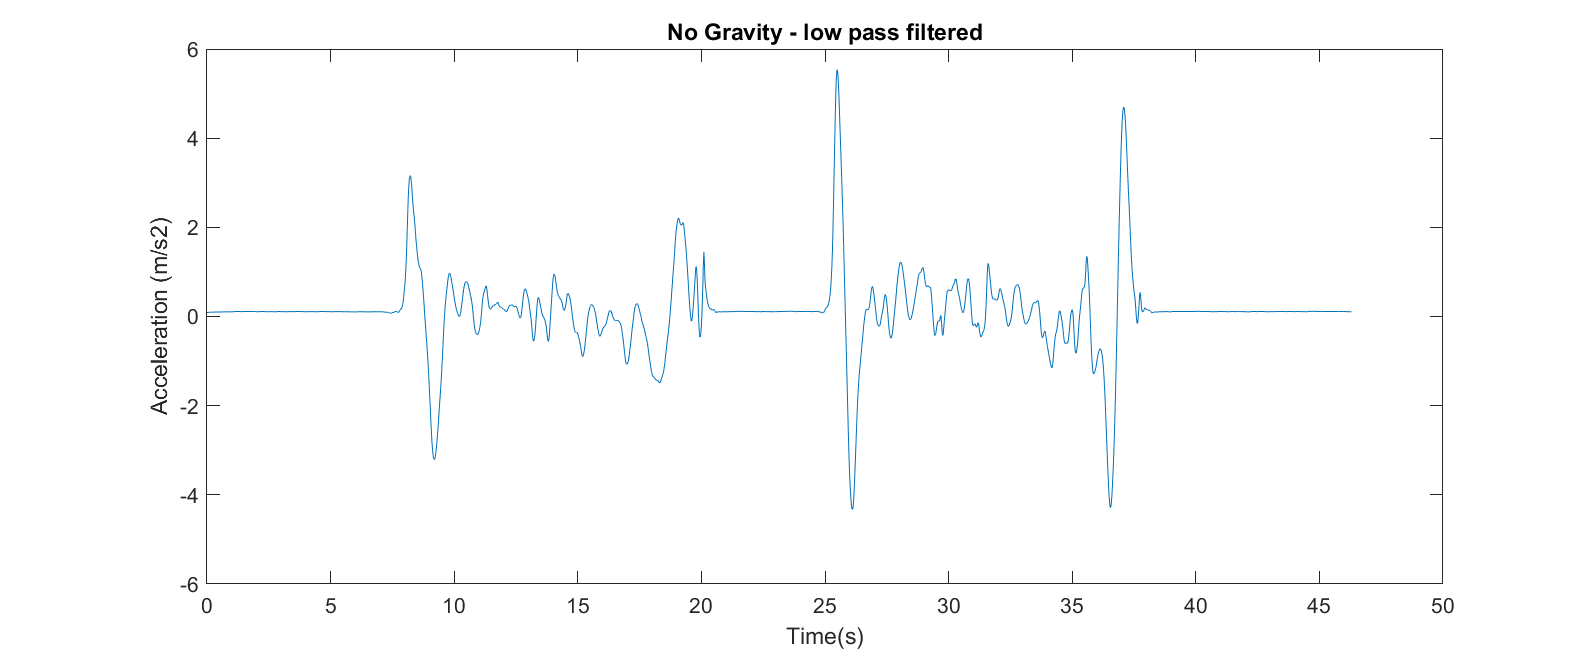
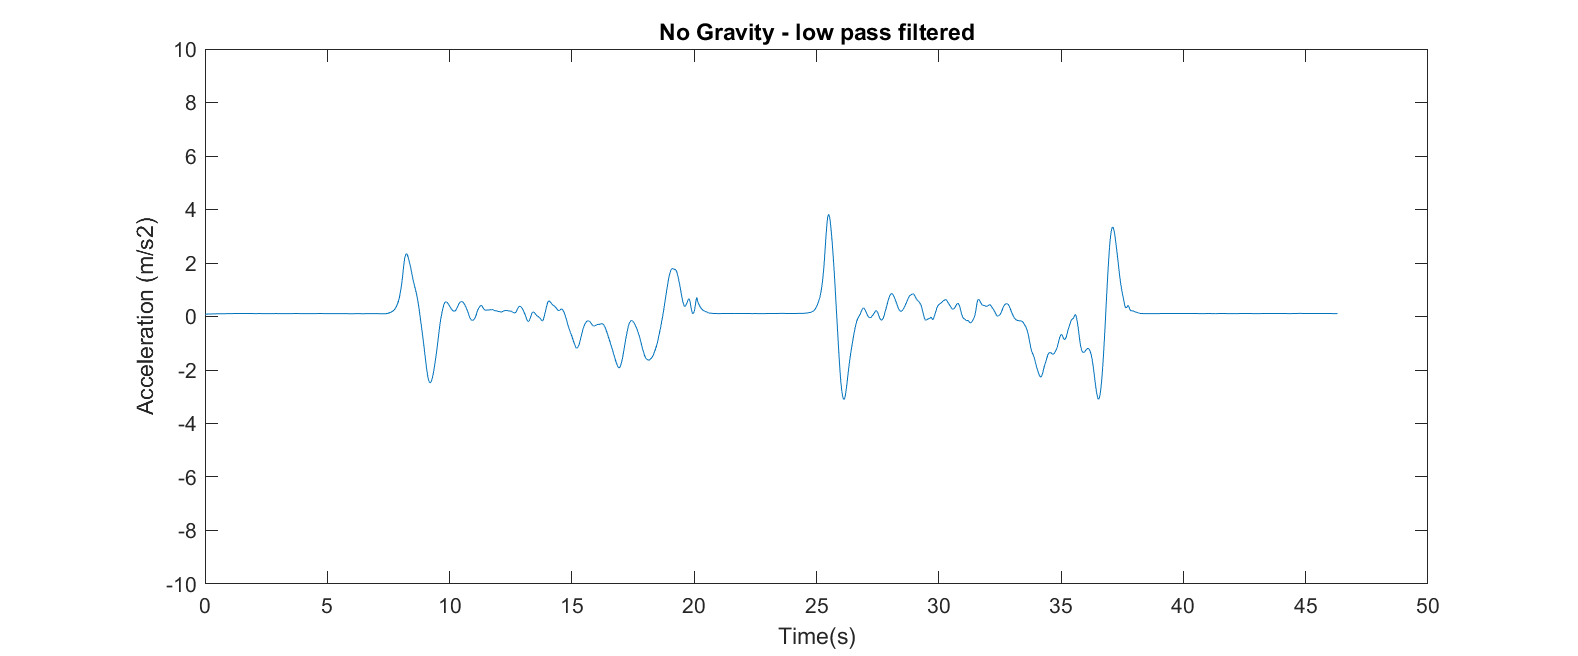
update

diff --git a/final/final_bolum2.m b/final/final_bolum2.m
@@ -35,7 +35,7 @@ ylabel('|P1(f)|')
 
 %% ivmenin filtrelenmesi
 
-fc=2;
+fc=1;
 fs=1/0.02;
 [c,d]=butter(1,fc/(fs/2),'low');
 
@@ -47,6 +47,7 @@ plot(t_a,a_no_g_filtered);
 title('No Gravity - low pass filtered');
 xlabel('Time(s)');
 ylabel('Acceleration (m/s2)');
+ylim([-10 10]);
 saveas(gcf,'filtrelenmis_ivme.png');
 %% FFT incelemesi bileske ivme
 Fs = 50;            % Sampling frequency                    
@@ -83,14 +84,20 @@ saveas(gcf,'filtrelenmis_ivme_2.png');
  v=cumtrapz(t_a,a_no_g_filtered);
  plot(t_a,v);
 
+%% position-with drift
 
+  s=cumtrapz(t_a,v);
+  plot(t_a,s);
 
-%  s=cumtrapz(t_a,v);
-%  plot(t_a,s);
+%% filter velocity-with drift
+fcv=0.5;
+[e,f]=butter(2,fcv/(fs/2),'high');
+v_filtered=filter(e,f,v);
 
+plot(t_a,v_filtered);
+ylim([-2 2]);
 
-% fcv=1;
-% [e,f]=butter(2,fcv/(fs/2),'high');
-% v=filter(e,f,v);
-% s=cumtrapz(t_a,v);
-% plot(t_a,v);
+%% position no drift
+s_filtered=cumtrapz(t_a,v_filtered);
+plot(t_a,s_filtered);
+ylim([-0.5 0.5]);

diff --git a/final/final_bolum2_denemeler.m b/final/final_bolum2_denemeler.m
@@ -1,0 +1,8 @@
+ld = load('hafta13\phoneIMU.mat');
+acc = ld.a;
+gyro = ld.omega;
+
+decim = 2;
+fuse = imufilter('SampleRate',50,'DecimationFactor',decim);
+
+q = fuse(accelerometerReadings,gyroscopeReadings);
